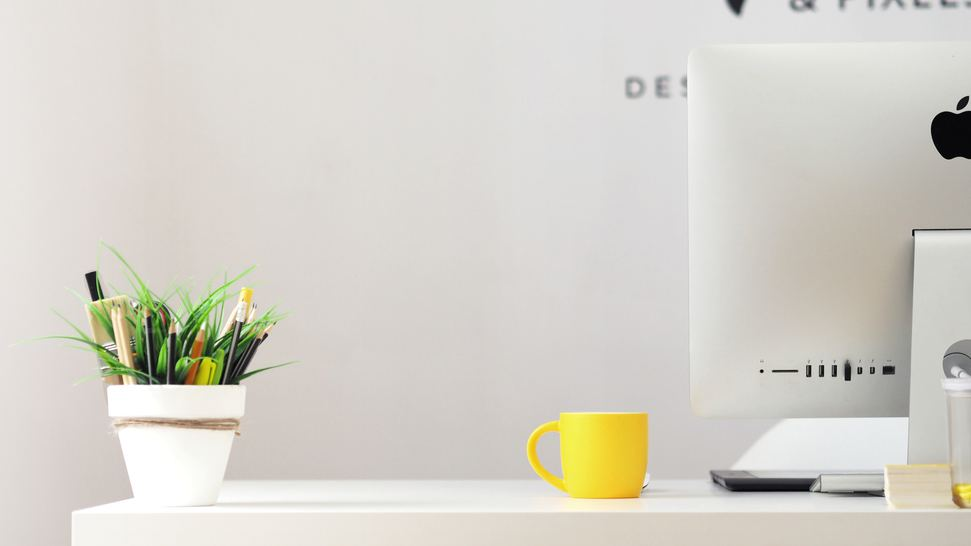
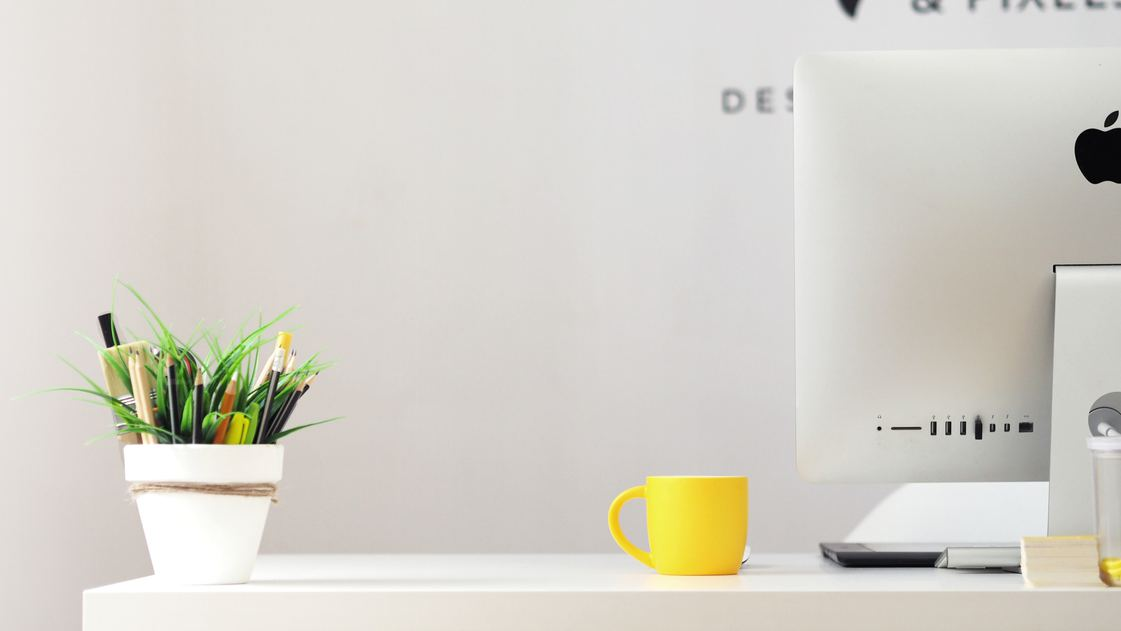
Add new about.png for about section, reduce transition speed for portfolio-item-overlay

diff --git a/index.html b/index.html
@@ -97,7 +97,7 @@
             <div class="row">
               <div class="col-md-12">
                 <div id="about-bottom">
-                  <img src="img/about/about.jpg" alt="about us image" class="img-responsive">
+                  <img src="img/about/about.png" alt="about us image" class="img-responsive">
                 </div>
               </div>
             </div>

diff --git a/css/style.css b/css/style.css
@@ -431,8 +431,8 @@ ul.social-list li a:hover {
   -webkit-cursor: zoom-in;
   cursor: zoom-in;
   opacity: 0;
-  -webkit-transition: all .8s ease;
-  transition: all .8s ease;
+  -webkit-transition: all .5s ease;
+  transition: all .5s ease;
 }
 
 /* Portfolio Item Details Effect */
